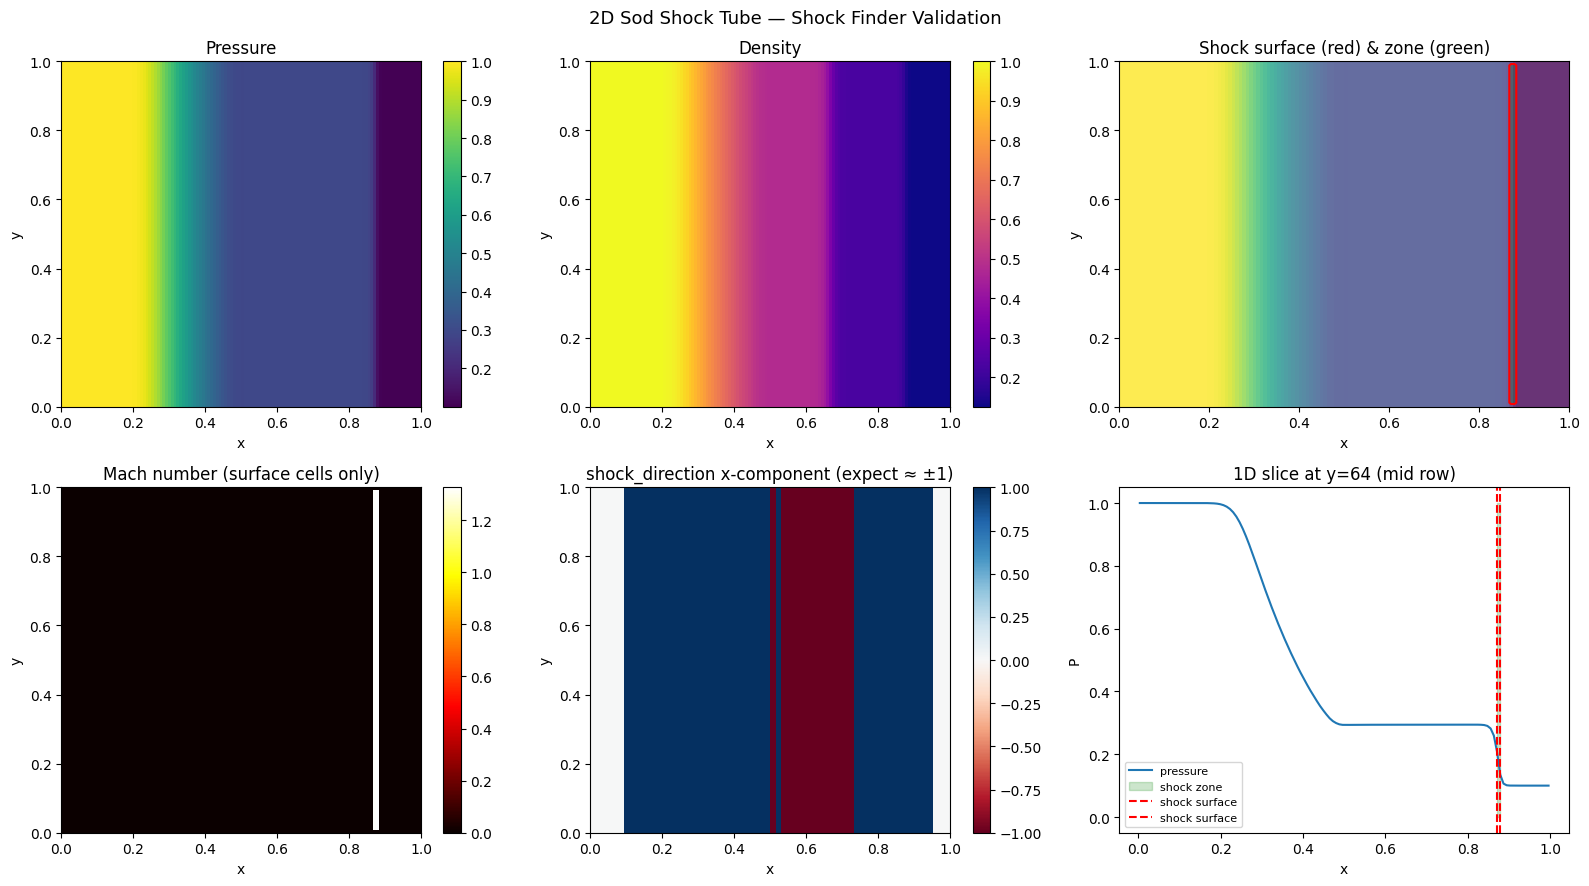
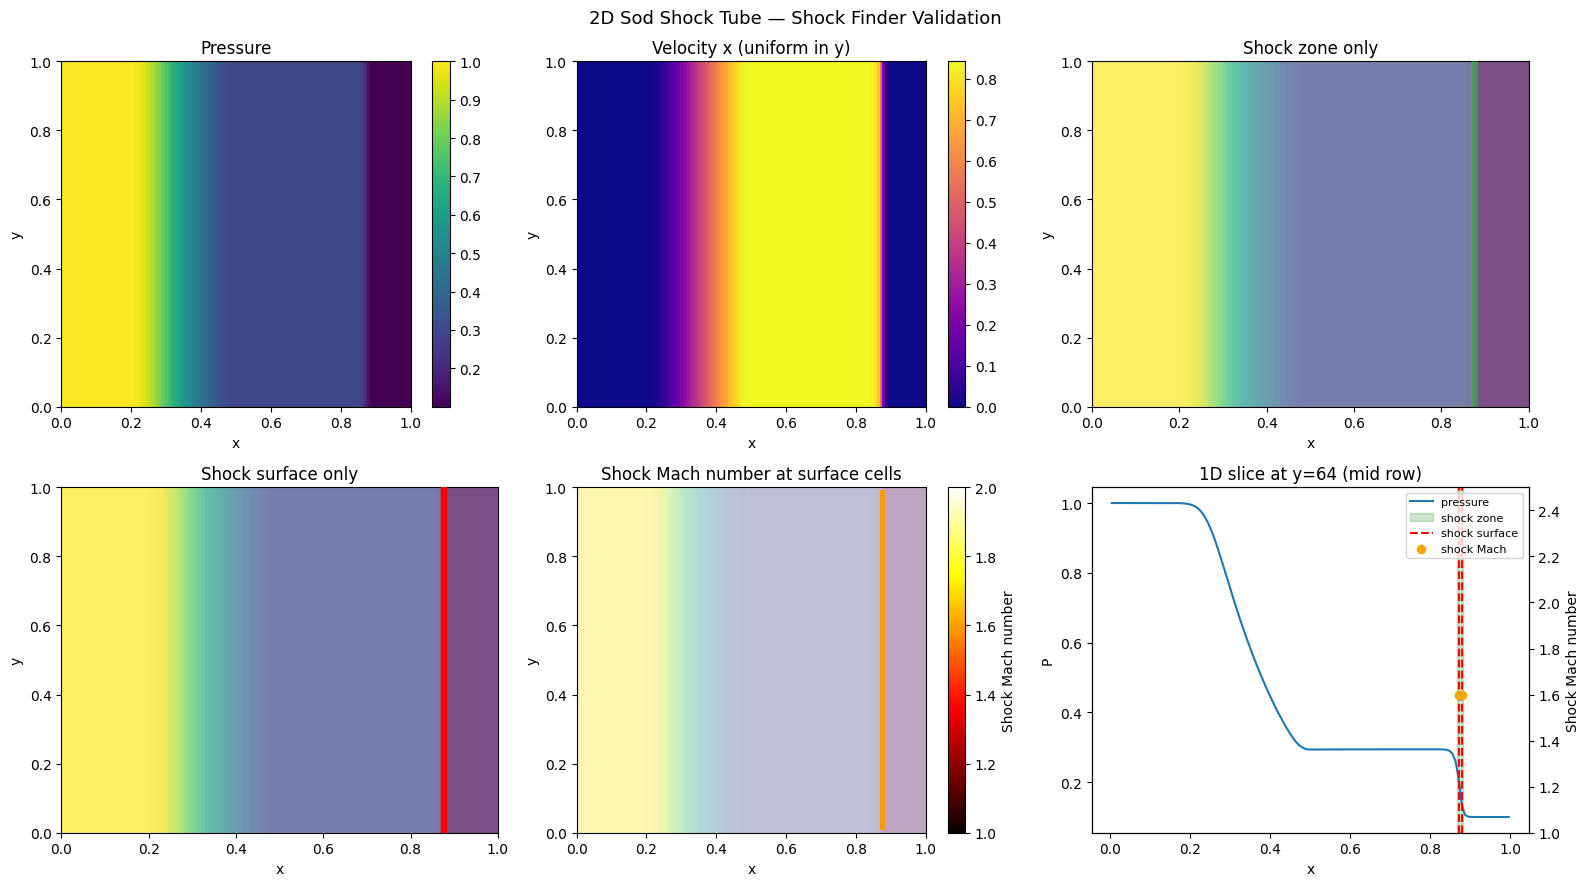
Add plot explanation for 2D_pfrommer in markdown format - Documented pressure and velocity regions in two panels - Included descriptions for shock front and rarefaction fan

diff --git a/notebooks/shock_finder/2D_pfrommer.py b/notebooks/shock_finder/2D_pfrommer.py
@@ -137,73 +137,184 @@ ds_y = result.shock_direction[1]   # (nx, ny)
 print(f"\nshock_direction[x] at surface: mean={ds_x[surface_mask].mean():.3f}  (expect ≈ ±1)")
 print(f"shock_direction[y] at surface: mean={ds_y[surface_mask].mean():.3f}  (expect ≈  0)")
 
-
+# %%
 # ============================================================================
 # PLOTS
 # ============================================================================
-
 fig, axes = plt.subplots(2, 3, figsize=(16, 9))
 fig.suptitle("2D Sod Shock Tube — Shock Finder Validation", fontsize=13)
 
-# 1. Pressure 2D map
-im0 = axes[0, 0].pcolormesh(x, y, p_final, cmap="viridis")
+# --------------------------------------------------------------------------
+# Precompute shock-surface / shock-zone x locations
+# --------------------------------------------------------------------------
+surface_cols = jnp.any(result.shock_surface_cells, axis=1)   # (nx,)
+zone_cols    = jnp.any(result.shock_zones, axis=1)           # (nx,)
+
+surface_x_cols = x[:, 0][surface_cols]
+zone_x_cols    = x[:, 0][zone_cols]
+
+dx = float(x[1, 0] - x[0, 0])
+
+# shock-zone band limits
+if zone_x_cols.size > 0:
+    zone_x0 = float(zone_x_cols.min()) - 0.5 * dx
+    zone_x1 = float(zone_x_cols.max()) + 0.5 * dx
+else:
+    zone_x0, zone_x1 = None, None
+
+# --------------------------------------------------------------------------
+# 1. Pressure
+# --------------------------------------------------------------------------
+im0 = axes[0, 0].pcolormesh(x, y, p_final, cmap="viridis", shading="auto")
 axes[0, 0].set_title("Pressure")
-axes[0, 0].set_xlabel("x"); axes[0, 0].set_ylabel("y")
+axes[0, 0].set_xlabel("x")
+axes[0, 0].set_ylabel("y")
 plt.colorbar(im0, ax=axes[0, 0])
 
-# 2. Velocity x map
-im1 = axes[0, 1].pcolormesh(x, y, vx_final, cmap="RdBu")
-axes[0, 1].set_title("Velocity x (expect uniform in y)")
-axes[0, 1].set_xlabel("x"); axes[0, 1].set_ylabel("y")
+# --------------------------------------------------------------------------
+# 2. Velocity x
+# --------------------------------------------------------------------------
+im1 = axes[0, 1].pcolormesh(x, y, vx_final, cmap="plasma", shading="auto")
+axes[0, 1].set_title("Velocity x (uniform in y)")
+axes[0, 1].set_xlabel("x")
+axes[0, 1].set_ylabel("y")
 plt.colorbar(im1, ax=axes[0, 1])
 
-# 3. Shock surface + zone overlay on pressure
-axes[0, 2].pcolormesh(x, y, p_final, cmap="viridis", alpha=0.8)
-axes[0, 2].contour(x, y, result.shock_surface_cells.astype(float),
-                   levels=[0.5], colors="red", linewidths=1.5)
-axes[0, 2].contourf(x, y, result.shock_zones.astype(float),
-                    levels=[0.5, 1.5], colors=["green"], alpha=0.25)
-axes[0, 2].set_title("Shock surface (red) & zone (green)")
-axes[0, 2].set_xlabel("x"); axes[0, 2].set_ylabel("y")
+# --------------------------------------------------------------------------
+# 3. Shock zone only
+# --------------------------------------------------------------------------
+axes[0, 2].pcolormesh(
+    x, y, p_final,
+    cmap="viridis",
+    shading="auto",
+    alpha=0.70
+)
 
-# 4. Mach number map
-im3 = axes[1, 0].pcolormesh(x, y, result.mach_numbers, cmap="hot", vmin=0, vmax=2.0)
-axes[1, 0].set_title("Mach number (surface cells only)")
-axes[1, 0].set_xlabel("x"); axes[1, 0].set_ylabel("y")
-plt.colorbar(im3, ax=axes[1, 0])
+if zone_x0 is not None:
+    axes[0, 2].axvspan(
+        zone_x0, zone_x1,
+        color="lime",
+        alpha=0.28,
+        zorder=10
+    )
 
-# 5. shock_direction y-component (expect ≈ 0 for axis-aligned shock)
-im4 = axes[1, 1].pcolormesh(x, y, ds_y, cmap="RdBu", vmin=-1, vmax=1)
-axes[1, 1].set_title("shock_direction y-component (expect ≈ 0)")
-axes[1, 1].set_xlabel("x"); axes[1, 1].set_ylabel("y")
-plt.colorbar(im4, ax=axes[1, 1])
+axes[0, 2].set_title("Shock zone only")
+axes[0, 2].set_xlabel("x")
+axes[0, 2].set_ylabel("y")
 
-# 6. 1D slice at mid-row — pressure + Mach + shock markers
+# --------------------------------------------------------------------------
+# 4. Shock surface
+# --------------------------------------------------------------------------
+axes[1, 0].pcolormesh(
+    x, y, p_final,
+    cmap="viridis",
+    shading="auto",
+    alpha=0.70
+)
+
+for i, xi in enumerate(surface_x_cols):
+    axes[1, 0].axvline(
+        float(xi),
+        color="red",
+        linewidth=2.5,
+        zorder=12
+    )
+
+axes[1, 0].set_title("Shock surface only")
+axes[1, 0].set_xlabel("x")
+axes[1, 0].set_ylabel("y")
+
+# --------------------------------------------------------------------------
+# 5. Shock Mach number at surface cells
+# --------------------------------------------------------------------------
+
+# Mask Mach number outside shock-surface cells
+mach_surface_only = jnp.where(
+    result.shock_surface_cells,
+    result.mach_numbers,
+    jnp.nan
+)
+
+# Optional pressure background for context
+axes[1, 1].pcolormesh(
+    x, y, p_final,
+    cmap="viridis",
+    shading="auto",
+    alpha=0.35
+)
+
+# Plot only the Mach number at detected shock-surface cells
+im_mach = axes[1, 1].pcolormesh(
+    x, y, mach_surface_only,
+    cmap="hot",
+    vmin=1.0,
+    vmax=2.0,
+    shading="auto"
+)
+
+axes[1, 1].set_title("Shock Mach number at surface cells")
+axes[1, 1].set_xlabel("x")
+axes[1, 1].set_ylabel("y")
+
+cbar = plt.colorbar(im_mach, ax=axes[1, 1])
+cbar.set_label("Shock Mach number")
+
+# --------------------------------------------------------------------------
+# 6. 1D slice at mid-row
+# --------------------------------------------------------------------------
 mid = num_cells // 2
+
 x_slice    = x[:, mid]
 p_slice    = p_final[:, mid]
 surf_slice = result.shock_surface_cells[:, mid]
 zone_slice = result.shock_zones[:, mid]
 mach_slice = result.mach_numbers[:, mid]
 
+# pressure
 axes[1, 2].plot(x_slice, p_slice, label="pressure")
-axes[1, 2].fill_between(x_slice, 0, 1, where=zone_slice,
-                         alpha=0.2, color="green", label="shock zone")
-for xi in x_slice[surf_slice]:
-    axes[1, 2].axvline(xi, color="red", linestyle="--",
-                        linewidth=1.5, label="shock surface")
+
+# shock zone as vertical band on 1D slice
+if zone_x0 is not None:
+    axes[1, 2].axvspan(
+        zone_x0, zone_x1,
+        color="green",
+        alpha=0.20,
+        label="shock zone"
+    )
+
+# shock surface as dashed red line(s)
+for i, xi in enumerate(x_slice[surf_slice]):
+    axes[1, 2].axvline(
+        float(xi),
+        color="red",
+        linestyle="--",
+        linewidth=1.5,
+        label="shock surface" if i == 0 else None
+    )
+
 axes[1, 2].set_title(f"1D slice at y={mid} (mid row)")
-axes[1, 2].set_xlabel("x"); axes[1, 2].set_ylabel("P")
+axes[1, 2].set_xlabel("x")
+axes[1, 2].set_ylabel("P")
 
+# Mach on secondary y-axis
 ax2 = axes[1, 2].twinx()
-ax2.plot(x_slice, mach_slice, color="orange", label="Mach")
-ax2.set_ylabel("M")
-ax2.set_ylim(0, 2.5)
 
-# combined legend from both axes
+ax2.scatter(
+    x_slice[surf_slice],
+    mach_slice[surf_slice],
+    color="orange",
+    s=35,
+    label="shock Mach",
+    zorder=20
+)
+
+ax2.set_ylabel("Shock Mach number")
+ax2.set_ylim(1.0, 2.5)
+
+# combined legend
 lines1, labels1 = axes[1, 2].get_legend_handles_labels()
 lines2, labels2 = ax2.get_legend_handles_labels()
-ax2.legend(lines1 + lines2, labels1 + labels2, fontsize=8)
+ax2.legend(lines1 + lines2, labels1 + labels2, fontsize=8, loc="upper right")
 
 plt.tight_layout()
 plt.show()

diff --git a/notebooks/shock_finder/plot_explanation.md b/notebooks/shock_finder/plot_explanation.md
@@ -1,0 +1,15 @@
+# 2D_pfrommer
+
+# Panel 1
+x=0.0 to x≈0.1   → yellow (p≈1.0)   original high pressure left state
+x≈0.1 to x≈0.4   → yellow→teal      rarefaction fan — pressure drops smoothly
+x≈0.4 to x≈0.87  → teal  (p≈0.3)   post-shock plateau — flat region
+x≈0.87            → sharp edge       SHOCK FRONT — abrupt pressure drop
+x≈0.87 to x=1.0  → purple (p≈0.1)  original low pressure right state
+
+# Panel 2
+Left region    (x < 0.1)   →  dark purple   vx ≈ 0
+Rarefaction    (x ≈ 0.1–0.4) →  purple→orange  vx rising
+Post-shock     (x ≈ 0.4–0.87) →  yellow        vx ≈ 0.93 (flat plateau)
+Shock front    (x ≈ 0.87)   →  sharp drop
+Right region   (x > 0.87)  →  dark purple   vx ≈ 0
